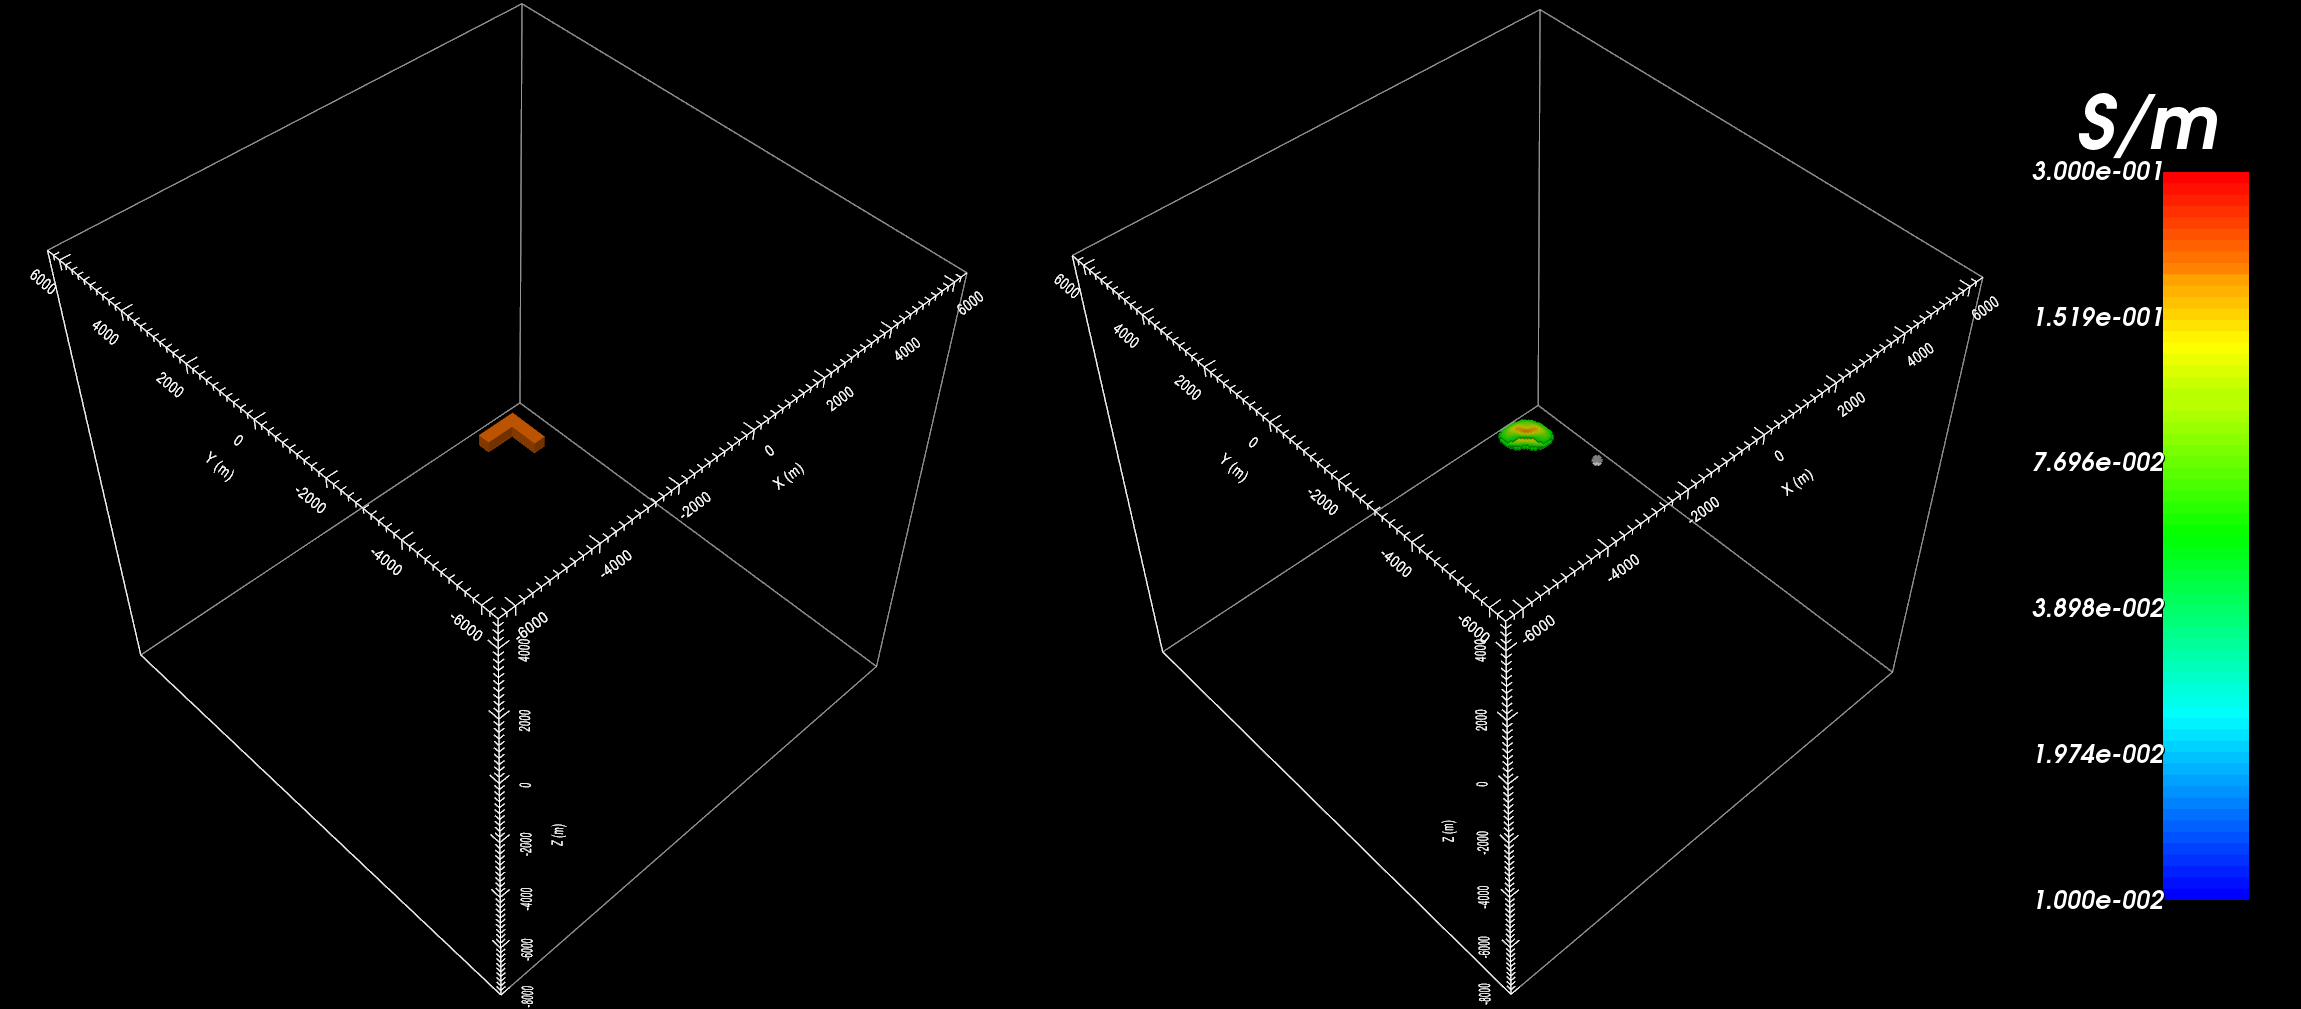
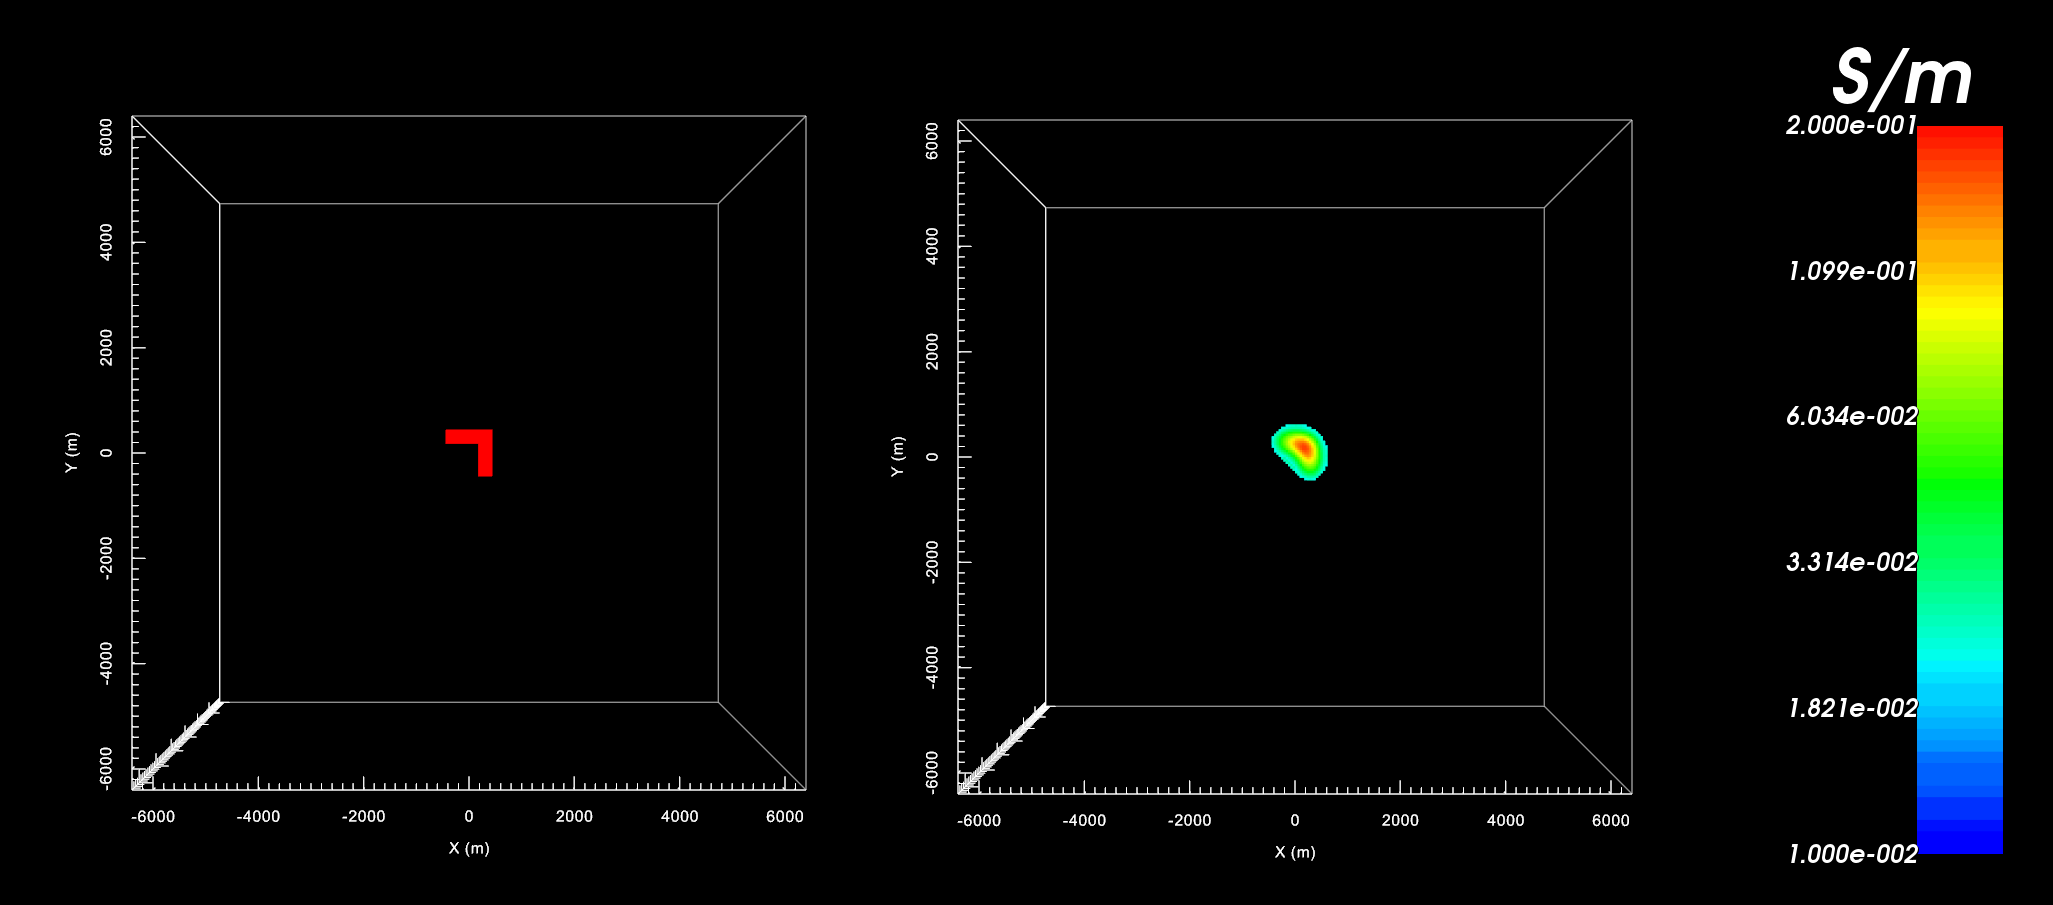
update inversion example

diff --git a/content/example/inv.rst b/content/example/inv.rst
@@ -3,7 +3,7 @@
 Inversion
 =========
 
-Here, the code **e3dinv.exe** and the input file **e3dinv.inp** (:ref:`see format <e3d_input_inv>`) are used to invert Hz data. FEM data were created in the example ":ref:`forward modeling<example_fwd>`". To keep things simple, uncertainties of :math:`10^{-7} \pm 5\%` were added to the real component and uncertainties of :math:`10^{-9} \pm 5\%` were added to the imaginary component. In practice, data are noisy and choosing appropriate uncertainties is very important for successful inversion. Files relevant to this part of the example are in the sub-folder *inv*. Before running this example, you may want to do the following:
+Here, the code **e3dinv.exe** and the input file **e3dinv.inp** (:ref:`see format <e3d_input_inv>`) are used to invert total field Hz data. FEM data were created in the example ":ref:`forward modeling<example_fwd>`". To create uncertainties, we forward modeled the data for a vacuum (primary field) then subtracted the primary field from the observed data to obtain the secondary field. :math:`10^{-9} \; H/m \; \pm 5\%` of the secondary field was used as the uncertainties. In practice, data are noisy and choosing appropriate uncertainties is very important for successful inversion. Files relevant to this part of the example are in the sub-folder *inv*. Before running this example, you may want to do the following:
 
 	- `Download and open the zip folder containing the entire E3D version 1 example <https://github.com/ubcgif/E3D/raw/e3dinv/assets/E3D_manual_ver1.zip>`__ (if not done already)
 	- :ref:`Learn how to run code from command line <e3d_inv>`
@@ -15,7 +15,7 @@ To invert the synthetic data, the input file below was used:
      :align: center
      :width: 700
 
-The true model (left) and recovered model (right) at iteration 3 are shown below. A cutoff of 0.05 S/m has been used for both models. We should note some things about the inversion:
+The true model (left) and the final recovered model (right) are shown below. A cutoff of 0.025 S/m has been used for both models. We should note some things about the inversion:
 
 	- We inverted data at only two frequencies (25 Hz and 2500 Hz)
 	- We only inverted the vertical component of the total magnetic field
@@ -23,7 +23,7 @@ The true model (left) and recovered model (right) at iteration 3 are shown below
 
 The inversion places a conductive body in the appropriate location and is able to resolve the surface of the conductor. Given the minimal number of frequencies and field components being inverted in the example, the data were still able to resolve the shape of the conductor to a reasonable degree. For this case however, the inversion does not locate the bottom of the conductor.
 
-.. .. figure:: images/inv1.png
-..      :align: center
-..      :width: 700
+.. figure:: images/inv1.png
+     :align: center
+     :width: 700
 
